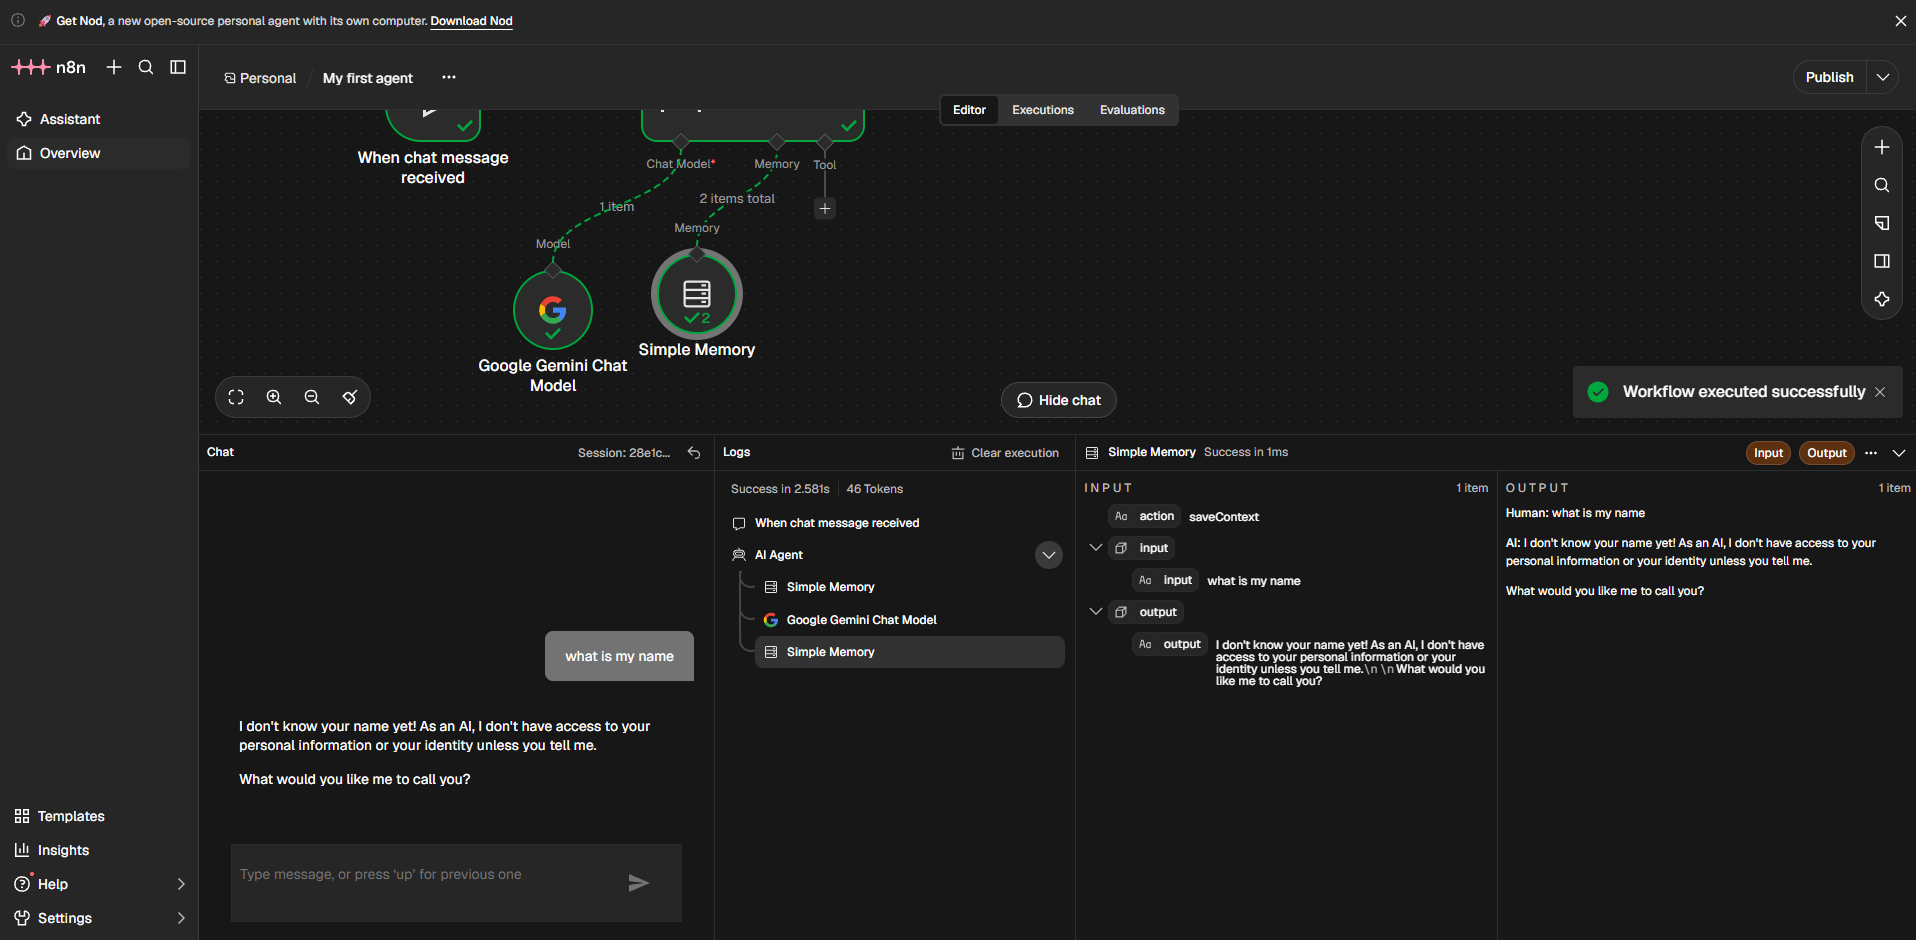
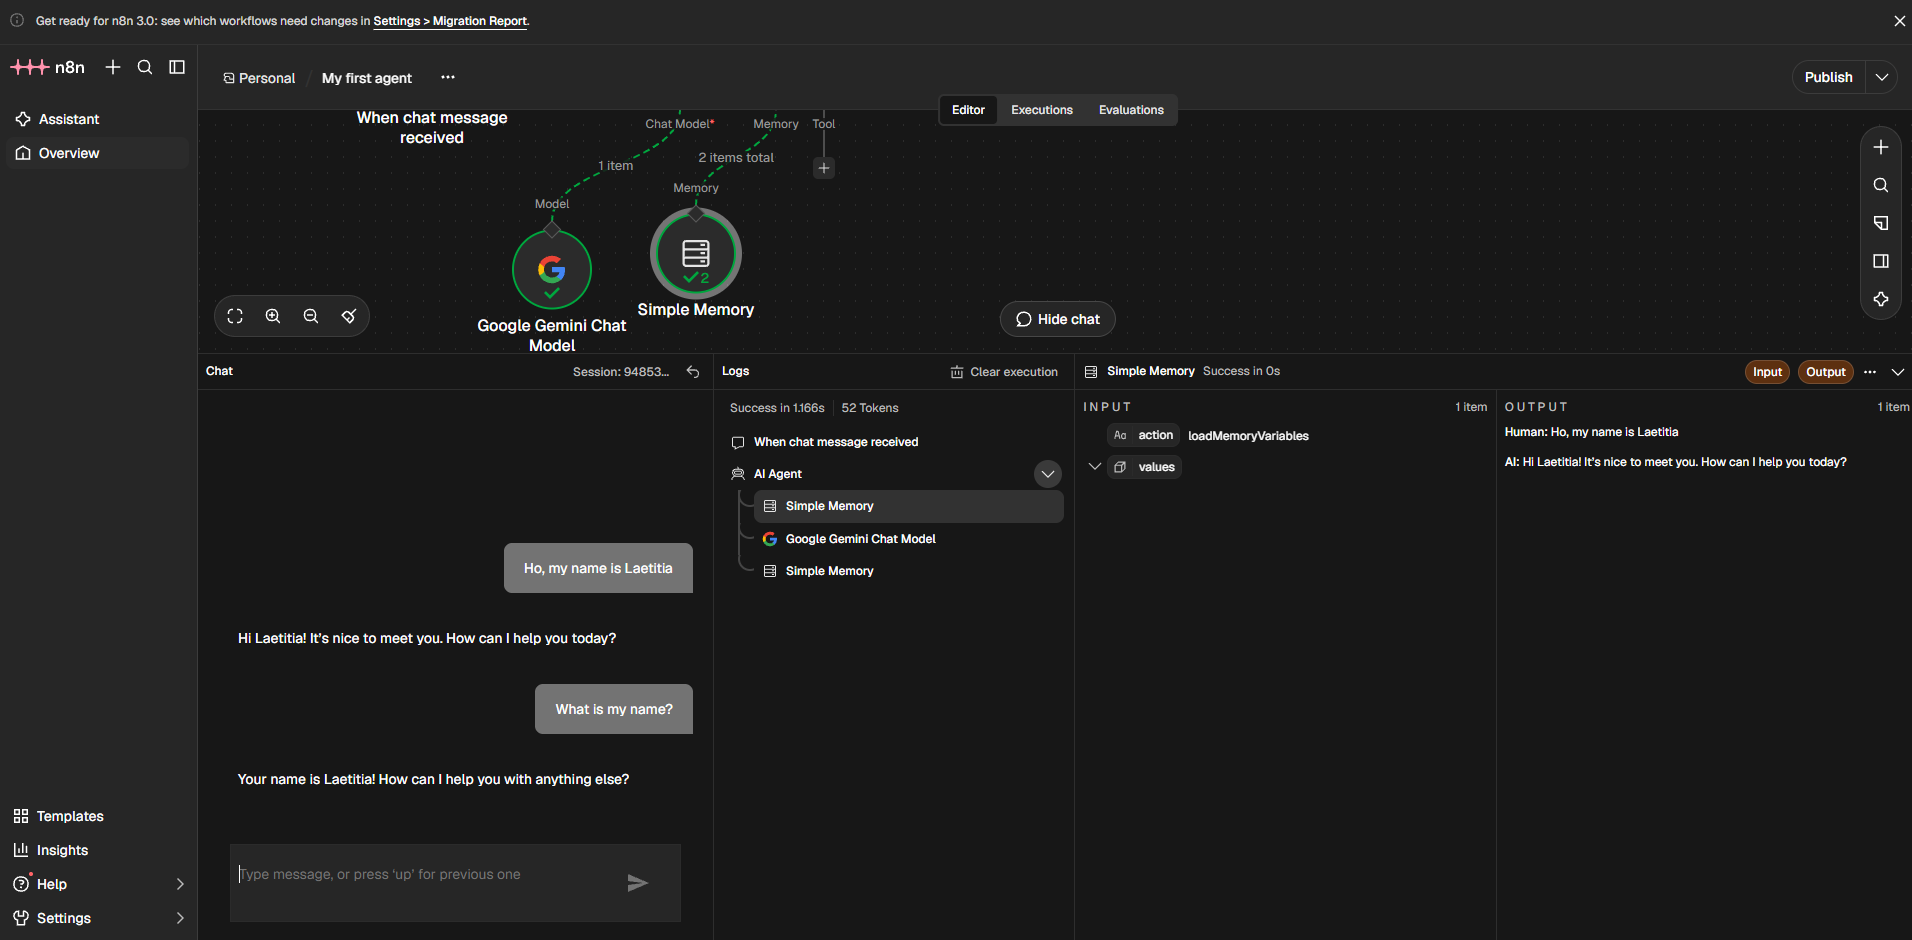
screenshot: update memory-0. questions: about context window

diff --git a/ANSWER.md b/ANSWER.md
@@ -16,3 +16,24 @@
 AI is used in scenario three but is still not an agent because it repeats the same task over and over again. It is the same steps. It doesn't need to act differently or do different things depending on the information it is given.
 
 Automation is often better as it costs less due to fewer AI calls. It is also faster as it doesn't need to 'think' about what to do. It does the same steps each time so it knows what to check.
+
+## Exercise 2
+
+Asking my name:
+
+![Ask Name](./screenshots/name.png)
+
+Asking for the first fact with context window 1:
+
+![Ask Question With 1 Context](./screenshots/memory-1.png)
+
+Asking for my name with context window 0: 
+
+![Ask Question With 0 Context](./screenshots/memory-0.png)
+
+**Questions:**
+
+Memory stores the earlier message of the chat. The context window is how many recent messages the agent gets to read each time a new one is written. So with no memory, the agent treats each message as the first one. 
+I noticed that I didn't matter if I changed the context while I was in the same chat but when I 'started fresh', then I saw some differences. When the context window was set to 1, I asked it stated three facts. I asked it about the first fact and could only venture a guess due to the answer it gave from my second fact. With no memory, it did still know my name.
+
+If the context window is set to 1000, it needs to read the past 1000 (or how many there are below that if it hasn't reached 1000) messages every time. It also means that more tokens which means it costs more money. It will also take the agent more time to reply as there are more things to read and old messages might not be relevant anymore to more recent questions.
